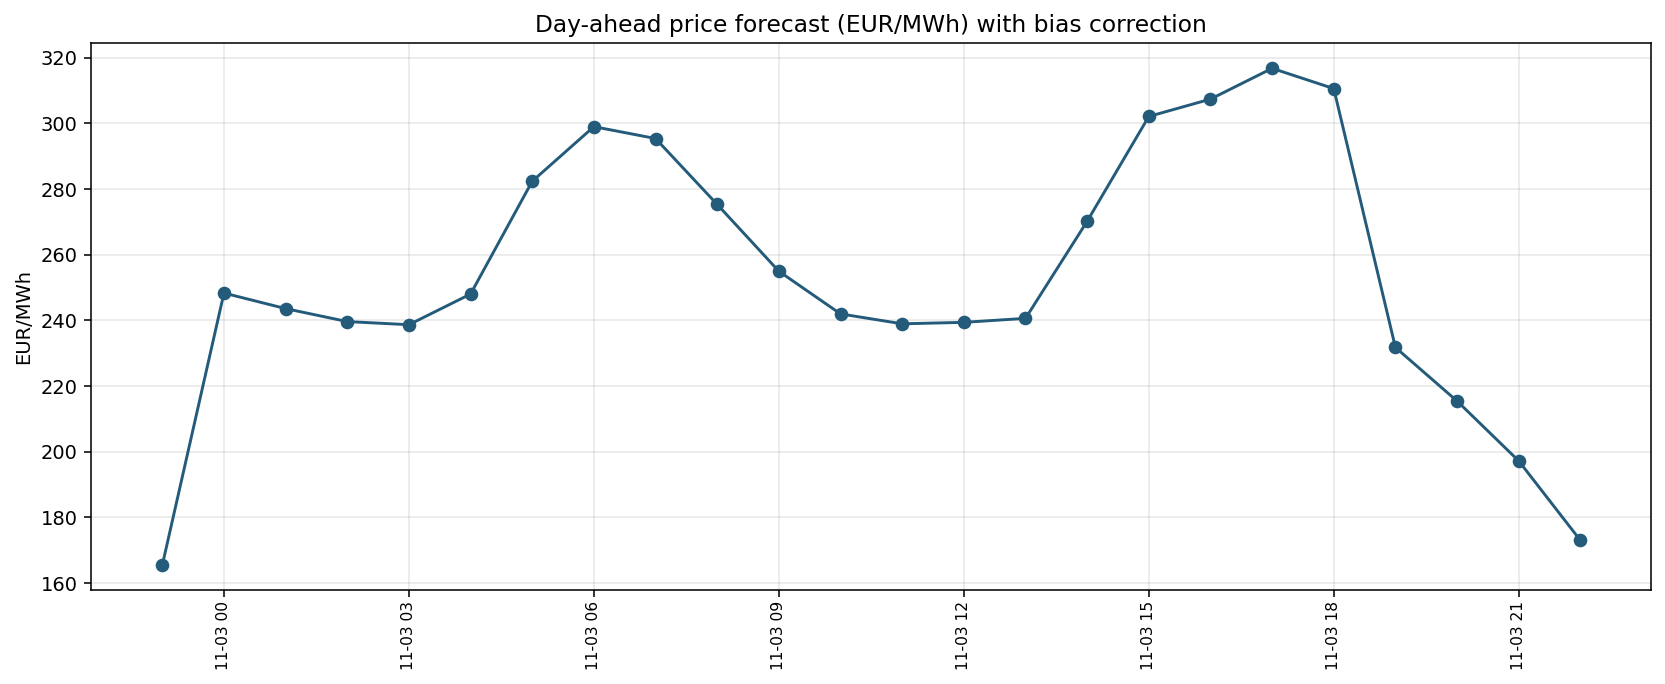
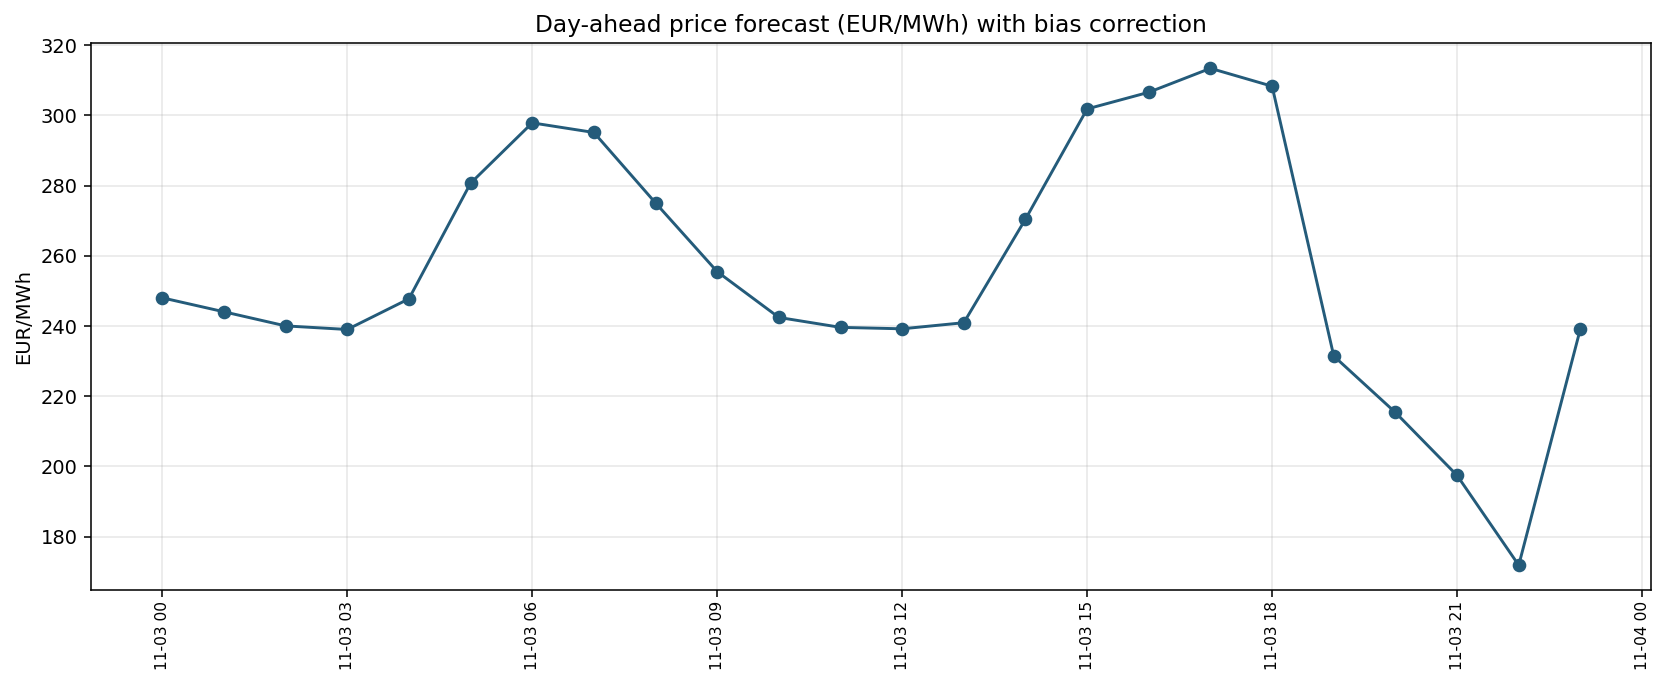
chore: daily forecast update

diff --git a/README.md b/README.md
@@ -195,9 +195,9 @@ Licence: MIT (code). Underlying market data remain subject to their original lic
 
 ## Live daily forecast
 
-**Generated (UTC):** 2026-11-02 22:56  
-**Based on data up to (UTC):** 2026-11-02 22:00  
-**Forecast horizon (UTC):** 2026-11-02 23:00 to 2026-11-03 22:00  
+**Generated (UTC):** 2026-11-02 23:00  
+**Based on data up to (UTC):** 2026-11-02 23:00  
+**Forecast horizon (UTC):** 2026-11-03 00:00 to 2026-11-03 23:00  
 **Protocol:** Conservative (external_shift = 24) + hourly bias correction
 
 ### Forecast chart
@@ -208,30 +208,30 @@ Licence: MIT (code). Underlying market data remain subject to their original lic
 
 | Hour (UTC) | Forecast (EUR/MWh) | Bias |
 |------------|--------------------|------|
-| 2026-11-02 23:00 | 165.43 | 0.00 |
-| 2026-11-03 00:00 | 248.32 | -88.86 |
-| 2026-11-03 01:00 | 243.58 | -86.06 |
-| 2026-11-03 02:00 | 239.63 | -82.19 |
-| 2026-11-03 03:00 | 238.68 | -79.24 |
-| 2026-11-03 04:00 | 248.02 | -62.76 |
-| 2026-11-03 05:00 | 282.37 | -59.97 |
-| 2026-11-03 06:00 | 299.00 | -57.66 |
-| 2026-11-03 07:00 | 295.38 | -63.63 |
-| 2026-11-03 08:00 | 275.31 | -66.18 |
-| 2026-11-03 09:00 | 254.96 | -69.56 |
-| 2026-11-03 10:00 | 241.97 | -69.83 |
-| 2026-11-03 11:00 | 238.95 | -73.10 |
-| 2026-11-03 12:00 | 239.40 | -69.05 |
-| 2026-11-03 13:00 | 240.61 | -55.20 |
-| 2026-11-03 14:00 | 270.17 | -63.60 |
-| 2026-11-03 15:00 | 302.10 | -61.61 |
-| 2026-11-03 16:00 | 307.38 | -40.92 |
-| 2026-11-03 17:00 | 316.76 | -46.18 |
-| 2026-11-03 18:00 | 310.59 | -59.17 |
-| 2026-11-03 19:00 | 231.76 | 0.00 |
-| 2026-11-03 20:00 | 215.42 | 0.00 |
-| 2026-11-03 21:00 | 197.19 | 0.00 |
-| 2026-11-03 22:00 | 172.99 | 0.00 |
+| 2026-11-03 00:00 | 248.02 | -88.86 |
+| 2026-11-03 01:00 | 244.04 | -86.06 |
+| 2026-11-03 02:00 | 240.02 | -82.19 |
+| 2026-11-03 03:00 | 239.00 | -79.24 |
+| 2026-11-03 04:00 | 247.74 | -62.76 |
+| 2026-11-03 05:00 | 280.68 | -59.97 |
+| 2026-11-03 06:00 | 297.88 | -57.66 |
+| 2026-11-03 07:00 | 295.14 | -63.63 |
+| 2026-11-03 08:00 | 275.06 | -66.18 |
+| 2026-11-03 09:00 | 255.48 | -69.56 |
+| 2026-11-03 10:00 | 242.43 | -69.83 |
+| 2026-11-03 11:00 | 239.60 | -73.10 |
+| 2026-11-03 12:00 | 239.19 | -69.05 |
+| 2026-11-03 13:00 | 240.93 | -55.20 |
+| 2026-11-03 14:00 | 270.45 | -63.60 |
+| 2026-11-03 15:00 | 301.85 | -61.61 |
+| 2026-11-03 16:00 | 306.60 | -40.92 |
+| 2026-11-03 17:00 | 313.42 | -46.18 |
+| 2026-11-03 18:00 | 308.32 | -59.17 |
+| 2026-11-03 19:00 | 231.43 | 0.00 |
+| 2026-11-03 20:00 | 215.34 | 0.00 |
+| 2026-11-03 21:00 | 197.41 | 0.00 |
+| 2026-11-03 22:00 | 171.82 | 0.00 |
+| 2026-11-03 23:00 | 239.19 | -69.26 |
 
 ### Previous forecasts vs realized prices
 
